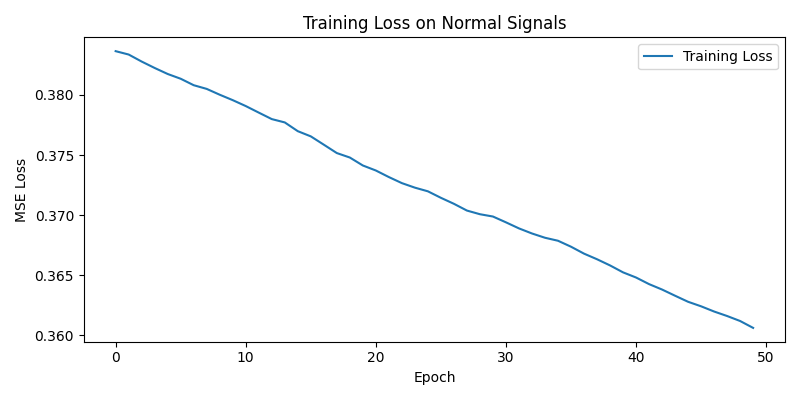
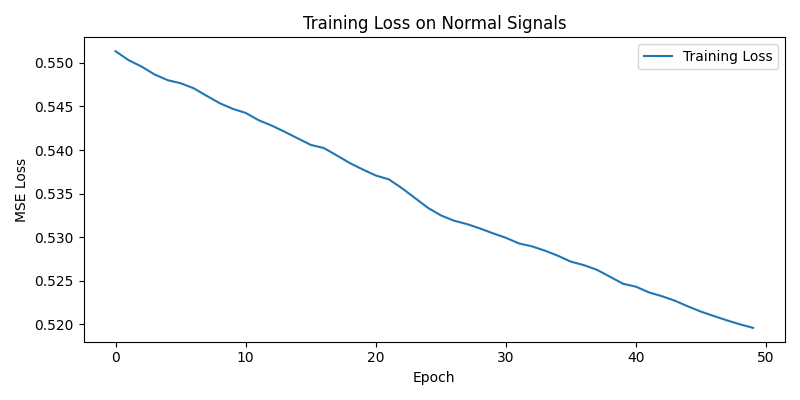
anomaly type testing

diff --git a/Code/train.py b/Code/train.py
@@ -13,10 +13,18 @@ from model import SimpleSNN
 # RESULTS_DIR = "results"
 # os.makedirs(RESULTS_DIR, exist_ok=True)
 
-threshold_val = 0.08  # change per experiment
+threshold_val = 0.05  # change per experiment --> locked in the best encoding threshold now
 
 RESULTS_DIR = f"results/threshold_{str(threshold_val).replace('.', '')}"
 os.makedirs(RESULTS_DIR, exist_ok=True)
+
+ANOMALY_TYPES = [
+    "amplitude_burst",
+    "frequency_shift",
+    "phase_shift",
+    "noise_burst",
+    "dropout"
+]
 
 # synthetic data generation (1 vs. multiple)
 def generate_signal(length=500, amplitude=1.0, frequency=1.0, phase=0.0,
@@ -61,7 +69,7 @@ def generate_signal(length=500, amplitude=1.0, frequency=1.0, phase=0.0,
     return signal
 
 
-def generate_signals(num_signals=50, anomaly=False):
+def generate_signals(num_signals=50, anomaly=False, anomaly_type=None):
     signals = []
     for _ in range(num_signals):
         amp = np.random.uniform(0.8, 1.2)
@@ -72,7 +80,8 @@ def generate_signals(num_signals=50, anomaly=False):
             amplitude=amp,
             frequency=freq,
             phase=phase,
-            anomaly=anomaly
+            anomaly=anomaly,
+            anomaly_type=anomaly_type
         )
         signals.append(signal)
 
@@ -127,6 +136,92 @@ def compute_anomaly_scores(model, signals, labels=None):
 
     return scores, x_batch, output
 
+
+# evaluating
+def evaluate_test_set(model, test_signals, labels, experiment_dir, experiment_name):
+    os.makedirs(experiment_dir, exist_ok=True)
+
+    scores, x_test, output_test = compute_anomaly_scores(model, test_signals, labels)
+
+    num_test = labels.count(0)
+
+    threshold = np.mean(scores[:num_test]) - 1 * np.std(scores[:num_test])
+    print(f"\n===== {experiment_name} =====")
+    print(f"Anomaly detection threshold (lower than normal) = {threshold:.4f}\n")
+
+    preds = [1 if score < threshold else 0 for score in scores]
+
+    for i, score in enumerate(scores):
+        if preds[i] == 1:
+            print(f"Signal {i:02d} flagged as ANOMALY (score = {score:.4f})")
+        else:
+            print(f"Signal {i:02d} considered NORMAL (score = {score:.4f})")
+
+    tp = sum((p == 1 and y == 1) for p, y in zip(preds, labels))
+    tn = sum((p == 0 and y == 0) for p, y in zip(preds, labels))
+    fp = sum((p == 1 and y == 0) for p, y in zip(preds, labels))
+    fn = sum((p == 0 and y == 1) for p, y in zip(preds, labels))
+
+    accuracy = (tp + tn) / len(labels)
+    precision = tp / (tp + fp) if (tp + fp) > 0 else 0.0
+    recall = tp / (tp + fn) if (tp + fn) > 0 else 0.0
+    f1 = 2 * precision * recall / (precision + recall) if (precision + recall) > 0 else 0.0
+
+    print("\nEvaluation Metrics:")
+    print(f"TP: {tp}, TN: {tn}, FP: {fp}, FN: {fn}")
+    print(f"Accuracy:  {accuracy:.4f}")
+    print(f"Precision: {precision:.4f}")
+    print(f"Recall:    {recall:.4f}")
+    print(f"F1 Score:  {f1:.4f}")
+
+    with open(os.path.join(experiment_dir, "metrics.txt"), "w") as f:
+        f.write(f"Experiment: {experiment_name}\n")
+        f.write(f"Encoding threshold: {threshold_val}\n")
+        f.write(f"Anomaly decision threshold: {threshold:.4f}\n")
+        f.write(f"TP: {tp}, TN: {tn}, FP: {fp}, FN: {fn}\n")
+        f.write(f"Accuracy: {accuracy:.4f}\n")
+        f.write(f"Precision: {precision:.4f}\n")
+        f.write(f"Recall: {recall:.4f}\n")
+        f.write(f"F1 Score: {f1:.4f}\n")
+
+    np.save(os.path.join(experiment_dir, "scores.npy"), scores)
+    np.save(os.path.join(experiment_dir, "preds.npy"), np.array(preds))
+    np.save(os.path.join(experiment_dir, "labels.npy"), np.array(labels))
+
+    idx_example = num_test
+
+    plt.figure(figsize=(12, 4))
+    plt.plot(x_test[:, idx_example, :].numpy(), label='Encoded Signal (Anomalous)')
+    plt.plot(output_test[:, idx_example, :].numpy(), label='Reconstructed Signal')
+    plt.title(f'SNN Reconstruction: {experiment_name}')
+    plt.legend()
+    plt.tight_layout()
+    plt.savefig(os.path.join(experiment_dir, "reconstruction_example.png"))
+    plt.close()
+
+    plt.figure(figsize=(10, 4))
+    plt.bar(range(len(scores)), scores, color=['green' if l == 0 else 'red' for l in labels])
+    plt.xlabel('Test Signal Index')
+    plt.ylabel('Reconstruction Error (Anomaly Score)')
+    plt.title(f'Anomaly Scores: {experiment_name}')
+    plt.tight_layout()
+    plt.savefig(os.path.join(experiment_dir, "anomaly_scores.png"))
+    plt.close()
+
+    return {
+        "experiment": experiment_name,
+        "threshold": threshold,
+        "tp": tp,
+        "tn": tn,
+        "fp": fp,
+        "fn": fn,
+        "accuracy": accuracy,
+        "precision": precision,
+        "recall": recall,
+        "f1": f1
+    }
+
+
 # main
 if __name__ == "__main__":
     # initializing model and optimizer
@@ -155,80 +250,43 @@ if __name__ == "__main__":
     plt.savefig(os.path.join(RESULTS_DIR, "training_loss.png"))
     plt.close()
 
-    # generate test signals (mix of normal and anomalous)
-    num_test = 20
-    normal_test = generate_signals(num_test, anomaly=False)
-    anomalous_test = generate_signals(num_test, anomaly=True)
-    test_signals = normal_test + anomalous_test
-    labels = [0]*num_test + [1]*num_test  # 0=normal, 1=anomaly
-
-    # compute anomaly scores
-    scores, x_test, output_test = compute_anomaly_scores(model, test_signals, labels)
-
-    # simple thresholding for anomaly detection
-    threshold = np.mean(scores[:num_test]) - 1*np.std(scores[:num_test])
-    print(f"Anomaly detection threshold (lower than normal) = {threshold:.4f}\n")
-
-    for i, score in enumerate(scores):
-        if score < threshold:
-            print(f"Signal {i:02d} flagged as ANOMALY (score = {score:.4f})")
-        else:
-            print(f"Signal {i:02d} considered NORMAL (score = {score:.4f})")
-
-    preds = [1 if score < threshold else 0 for score in scores]
-
-    # printing evaluation metrics (fp, tp, etc.)
-    tp = sum((p == 1 and y == 1) for p, y in zip(preds, labels))
-    tn = sum((p == 0 and y == 0) for p, y in zip(preds, labels))
-    fp = sum((p == 1 and y == 0) for p, y in zip(preds, labels))
-    fn = sum((p == 0 and y == 1) for p, y in zip(preds, labels))
-
-    accuracy = (tp + tn) / len(labels)
-    precision = tp / (tp + fp) if (tp + fp) > 0 else 0.0
-    recall = tp / (tp + fn) if (tp + fn) > 0 else 0.0
-    f1 = 2 * precision * recall / (precision + recall) if (precision + recall) > 0 else 0.0
-
-    print("\nEvaluation Metrics:")
-    print(f"TP: {tp}, TN: {tn}, FP: {fp}, FN: {fn}")
-    print(f"Accuracy:  {accuracy:.4f}")
-    print(f"Precision: {precision:.4f}")
-    print(f"Recall:    {recall:.4f}")
-    print(f"F1 Score:  {f1:.4f}")
-
-    with open(os.path.join(RESULTS_DIR, "metrics.txt"), "w") as f:
-        f.write(f"Encoding threshold: {threshold_val}\n")
-        f.write(f"Anomaly decision threshold: {threshold:.4f}\n")
-        f.write(f"TP: {tp}, TN: {tn}, FP: {fp}, FN: {fn}\n")
-        f.write(f"Accuracy: {accuracy:.4f}\n")
-        f.write(f"Precision: {precision:.4f}\n")
-        f.write(f"Recall: {recall:.4f}\n")
-        f.write(f"F1 Score: {f1:.4f}\n")
-
-    np.save(os.path.join(RESULTS_DIR, "scores.npy"), scores)
-    np.save(os.path.join(RESULTS_DIR, "preds.npy"), np.array(preds))
+    # save training loss
     np.save(os.path.join(RESULTS_DIR, "losses.npy"), np.array(all_losses))
 
-    # plot example signal vs reconstruction (first anomalous signal)
-    idx_example = num_test  # first anomalous
-    plt.figure(figsize=(12, 4))
-    plt.plot(x_test[:, idx_example, :].numpy(), label='Encoded Signal (Anomalous)')
-    plt.plot(output_test[:, idx_example, :].numpy(), label='Reconstructed Signal')
-    plt.title('SNN Reconstruction of Anomalous Signal')
-    plt.legend()
-    #plt.show()
+    # anomaly-type breakdown experiments
+    num_test = 20
+    all_results = []
 
-    plt.tight_layout()
-    plt.savefig(os.path.join(RESULTS_DIR, "reconstruction_example.png"))
-    plt.close()
+    for anomaly_type in ANOMALY_TYPES:
+        normal_test = generate_signals(num_test, anomaly=False)
+        anomalous_test = generate_signals(num_test, anomaly=True, anomaly_type=anomaly_type)
 
-    # plot anomaly scores
-    plt.figure(figsize=(10, 4))
-    plt.bar(range(len(scores)), scores, color=['green' if l==0 else 'red' for l in labels])
-    plt.xlabel('Test Signal Index')
-    plt.ylabel('Reconstruction Error (Anomaly Score)')
-    plt.title('Anomaly Scores (Green=Normal, Red=Anomalous)')
-    #plt.show()
+        test_signals = normal_test + anomalous_test
+        labels = [0] * num_test + [1] * num_test
 
-    plt.tight_layout()
-    plt.savefig(os.path.join(RESULTS_DIR, "anomaly_scores.png"))
-    plt.close()
+        experiment_dir = os.path.join(RESULTS_DIR, f"anomaly_type_{anomaly_type}")
+
+        result = evaluate_test_set(
+            model=model,
+            test_signals=test_signals,
+            labels=labels,
+            experiment_dir=experiment_dir,
+            experiment_name=anomaly_type
+        )
+
+        all_results.append(result)
+
+    # save summary table as CSV
+    summary_path = os.path.join(RESULTS_DIR, "anomaly_type_summary.csv")
+
+    with open(summary_path, "w") as f:
+        f.write("experiment,threshold,tp,tn,fp,fn,accuracy,precision,recall,f1\n")
+        for r in all_results:
+            f.write(
+                f"{r['experiment']},{r['threshold']:.4f},"
+                f"{r['tp']},{r['tn']},{r['fp']},{r['fn']},"
+                f"{r['accuracy']:.4f},{r['precision']:.4f},"
+                f"{r['recall']:.4f},{r['f1']:.4f}\n"
+            )
+
+    print(f"\nSaved anomaly-type summary to: {summary_path}")